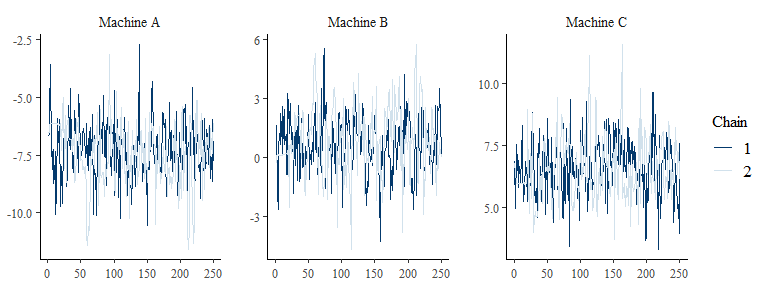
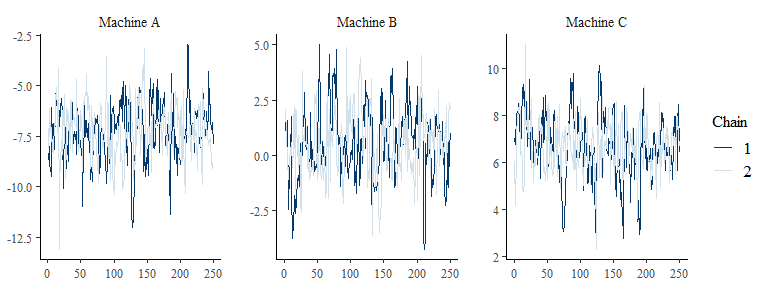
added travis support

diff --git a/README.md b/README.md
@@ -5,6 +5,8 @@
 
 <!-- badges: start -->
 
+[![Travis build
+status](https://travis-ci.org/bayesstuff/stanova.svg?branch=master)](https://travis-ci.org/bayesstuff/stanova)
 <!-- badges: end -->
 
 The goal of `stanova` is to provide a more relevant and interpretable
@@ -96,14 +98,14 @@ summary(m_machines)
 #> 
 #> Estimate Intercept:
 #>      Variable Mean MAD_SD   5%  50%  95% rhat ess_bulk ess_tail
-#> 1 (Intercept) 59.7   2.08 56.6 59.5 63.2 1.03      100      201
+#> 1 (Intercept) 59.4   2.09 55.9 59.3 63.4 1.02      114      138
 #> 
 #> 
 #> Estimates 'Machine':
 #>    Variable   Mean MAD_SD    5%    50%   95% rhat ess_bulk ess_tail
-#> 1 Machine A -7.404   1.29 -9.62 -7.343 -5.62 1.01      218      159
-#> 2 Machine B  0.821   1.53 -1.82  0.841  3.40 1.01      193      196
-#> 3 Machine C  6.583   1.09  4.71  6.541  8.54 1.01      234      226
+#> 1 Machine A -7.242   1.29 -9.50 -7.216 -5.16 1.00      183      261
+#> 2 Machine B  0.554   1.52 -1.91  0.505  2.92 1.00      124      161
+#> 3 Machine C  6.688   1.12  4.59  6.703  8.63 1.01      133      139
 ```
 
 The key to this output is the `stanova_samples()` function which takes a
@@ -116,12 +118,12 @@ default output is an `array`, but this can be changed to a `matrix` or
 out_array <- stanova_samples(m_machines)
 str(out_array)
 #> List of 2
-#>  $ (Intercept): num [1:250, 1, 1:2] 59.7 61.2 57.2 58 58.3 ...
+#>  $ (Intercept): num [1:250, 1, 1:2] 61.1 61 60.9 60.5 59.9 ...
 #>   ..- attr(*, "dimnames")=List of 3
 #>   .. ..$ Iteration: chr [1:250] "1" "2" "3" "4" ...
 #>   .. ..$ Parameter: chr "(Intercept)"
 #>   .. ..$ Chain    : chr [1:2] "chain:1" "chain:2"
-#>  $ Machine    : num [1:250, 1:3, 1:2] -6.66 -6.61 -5.67 -3.55 -7.54 ...
+#>  $ Machine    : num [1:250, 1:3, 1:2] -8.69 -8.01 -8.99 -9.06 -9.46 ...
 #>   ..- attr(*, "dimnames")=List of 3
 #>   .. ..$ Iteration: chr [1:250] "1" "2" "3" "4" ...
 #>   .. ..$ Parameter: chr [1:3] "Machine A" "Machine B" "Machine C"
@@ -135,12 +137,12 @@ via the `dimension_chain` argument.
 out_array2 <- stanova_samples(m_machines, dimension_chain = 2)
 str(out_array2)
 #> List of 2
-#>  $ (Intercept): num [1:250, 1:2, 1] 59.7 61.2 57.2 58 58.3 ...
+#>  $ (Intercept): num [1:250, 1:2, 1] 61.1 61 60.9 60.5 59.9 ...
 #>   ..- attr(*, "dimnames")=List of 3
 #>   .. ..$ Iteration: chr [1:250] "1" "2" "3" "4" ...
 #>   .. ..$ Chain    : chr [1:2] "chain:1" "chain:2"
 #>   .. ..$ Parameter: chr "(Intercept)"
-#>  $ Machine    : num [1:250, 1:2, 1:3] -6.66 -6.61 -5.67 -3.55 -7.54 ...
+#>  $ Machine    : num [1:250, 1:2, 1:3] -8.69 -8.01 -8.99 -9.06 -9.46 ...
 #>   ..- attr(*, "dimnames")=List of 3
 #>   .. ..$ Iteration: chr [1:250] "1" "2" "3" "4" ...
 #>   .. ..$ Chain    : chr [1:2] "chain:1" "chain:2"
@@ -160,4 +162,5 @@ bayesplot::mcmc_trace(out_array2$Machine)
 
 Rouder, J. N., Morey, R. D., Speckman, P. L., & Province, J. M. (2012).
 Default Bayes factors for ANOVA designs. Journal of Mathematical
-Psychology, 56(5), 356–374. <https://doi.org/10.1016/j.jmp.2012.08.001>
+Psychology, 56(5), 356â€“374.
+<https://doi.org/10.1016/j.jmp.2012.08.001>
